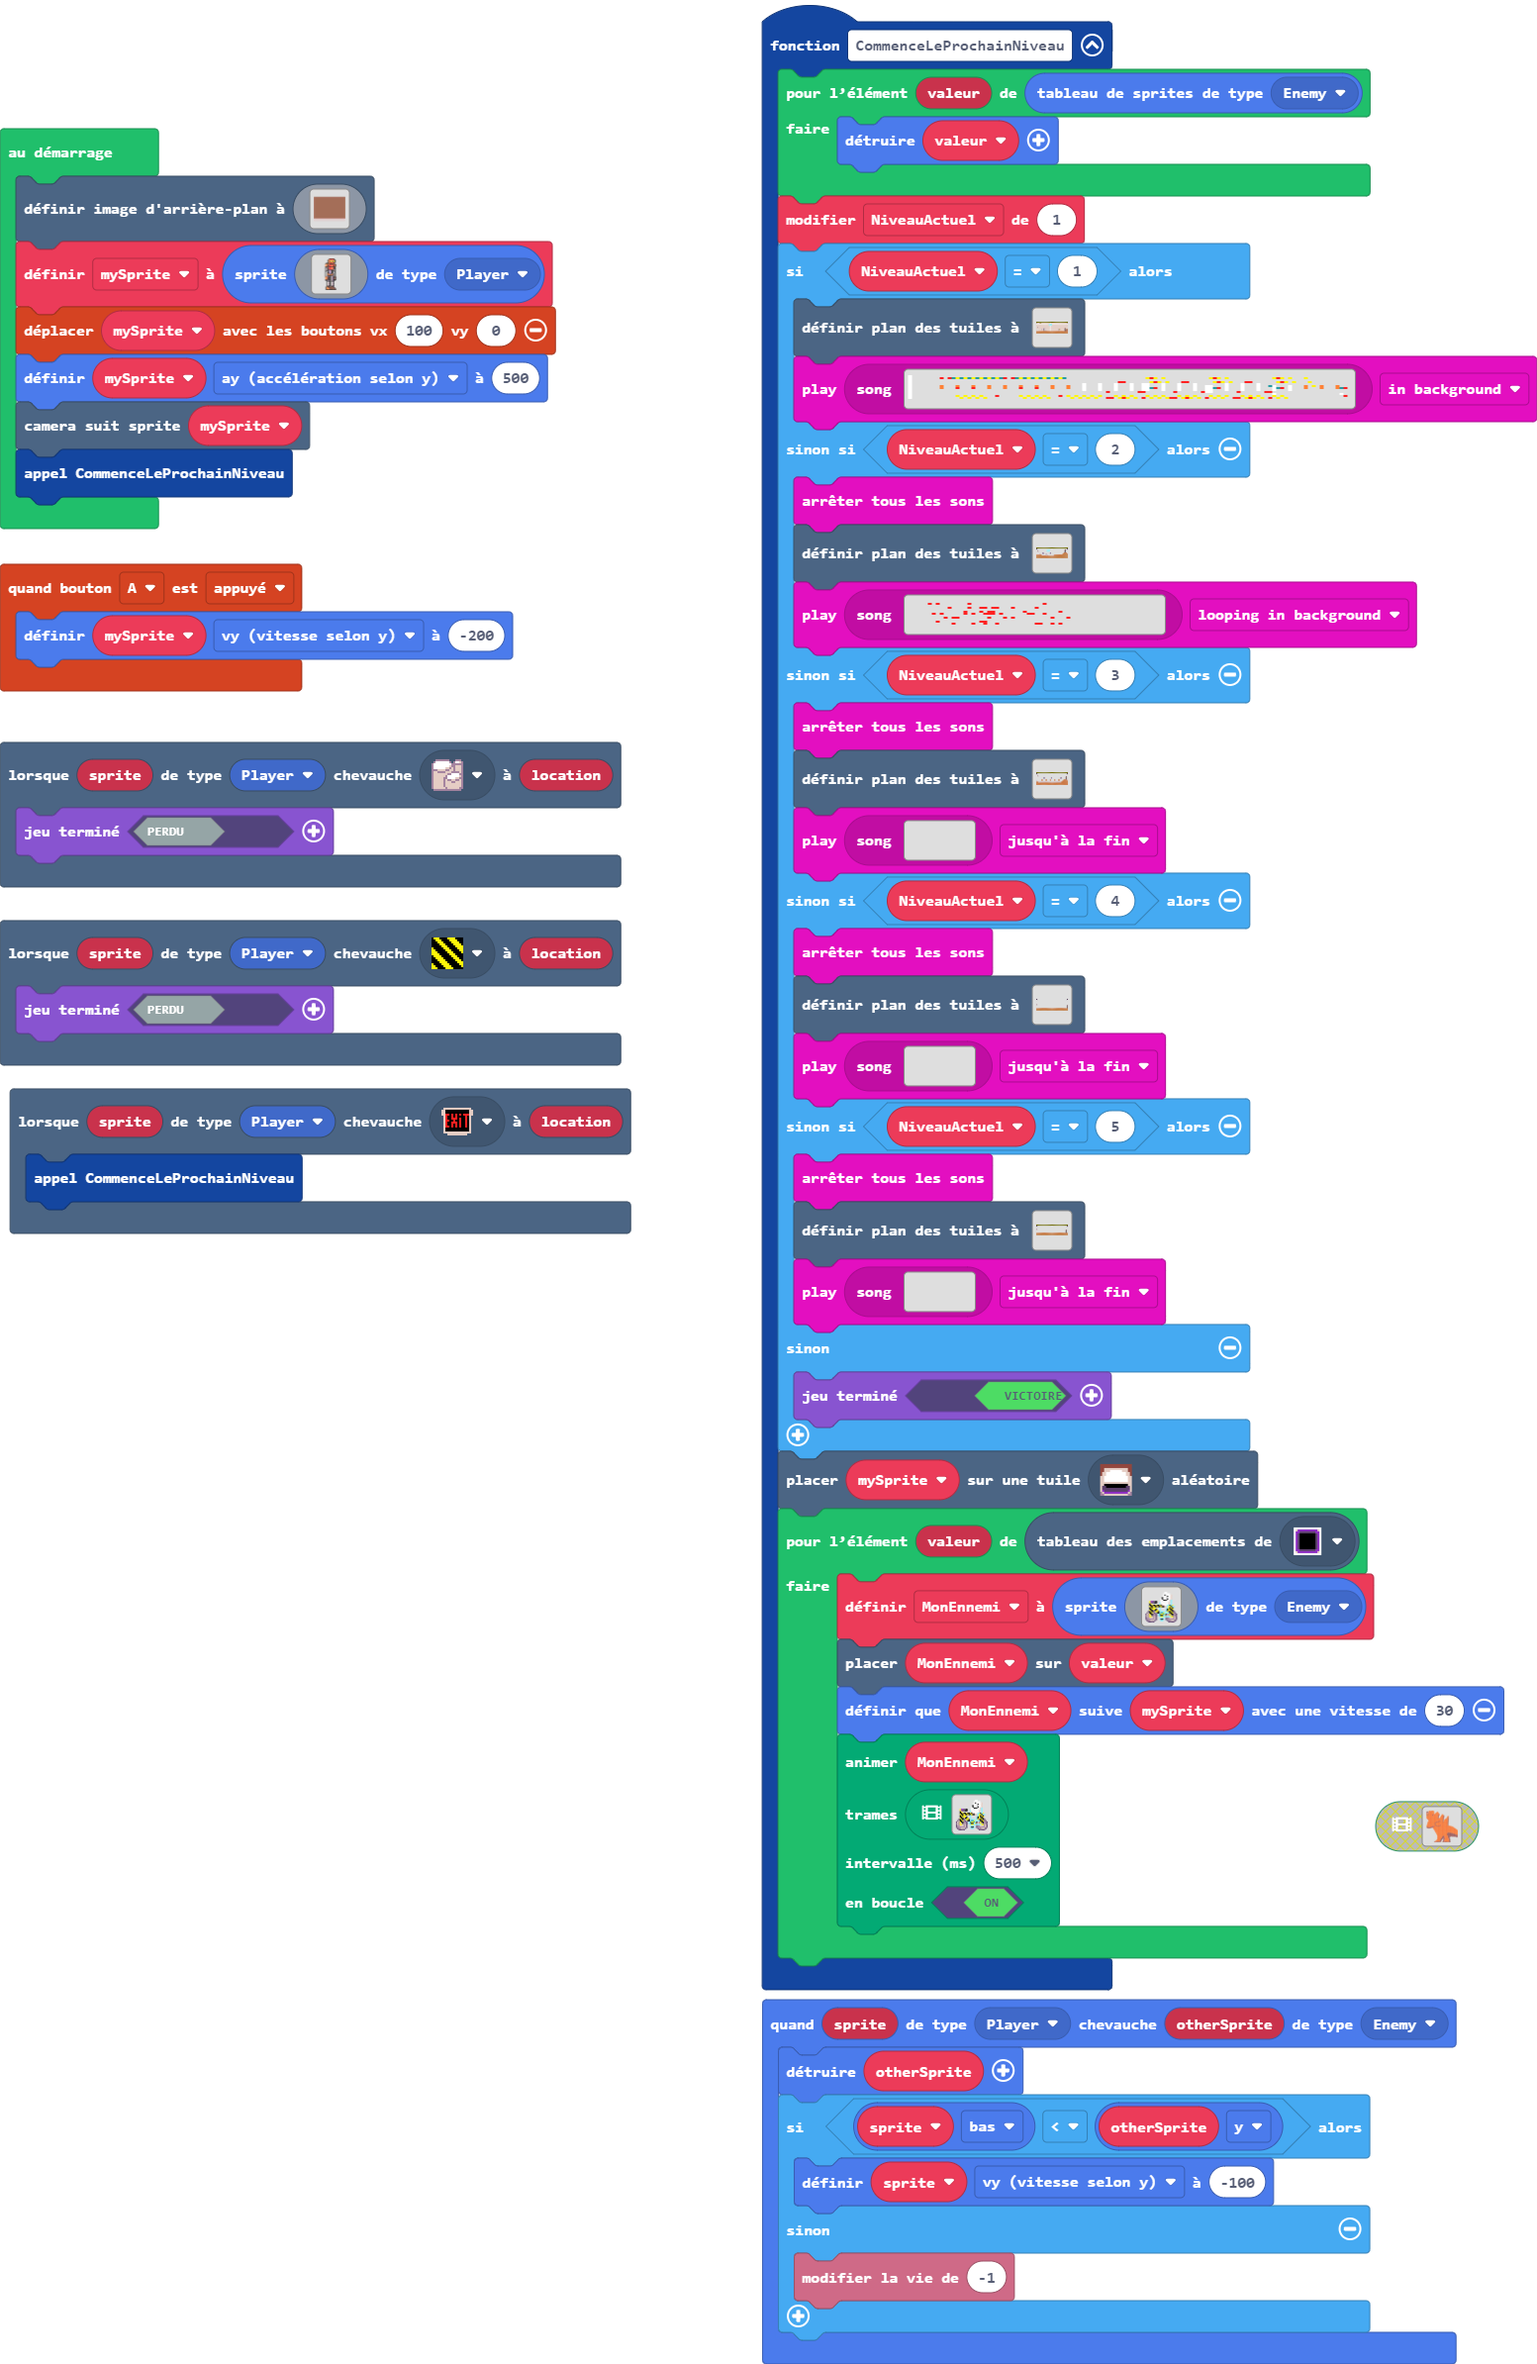
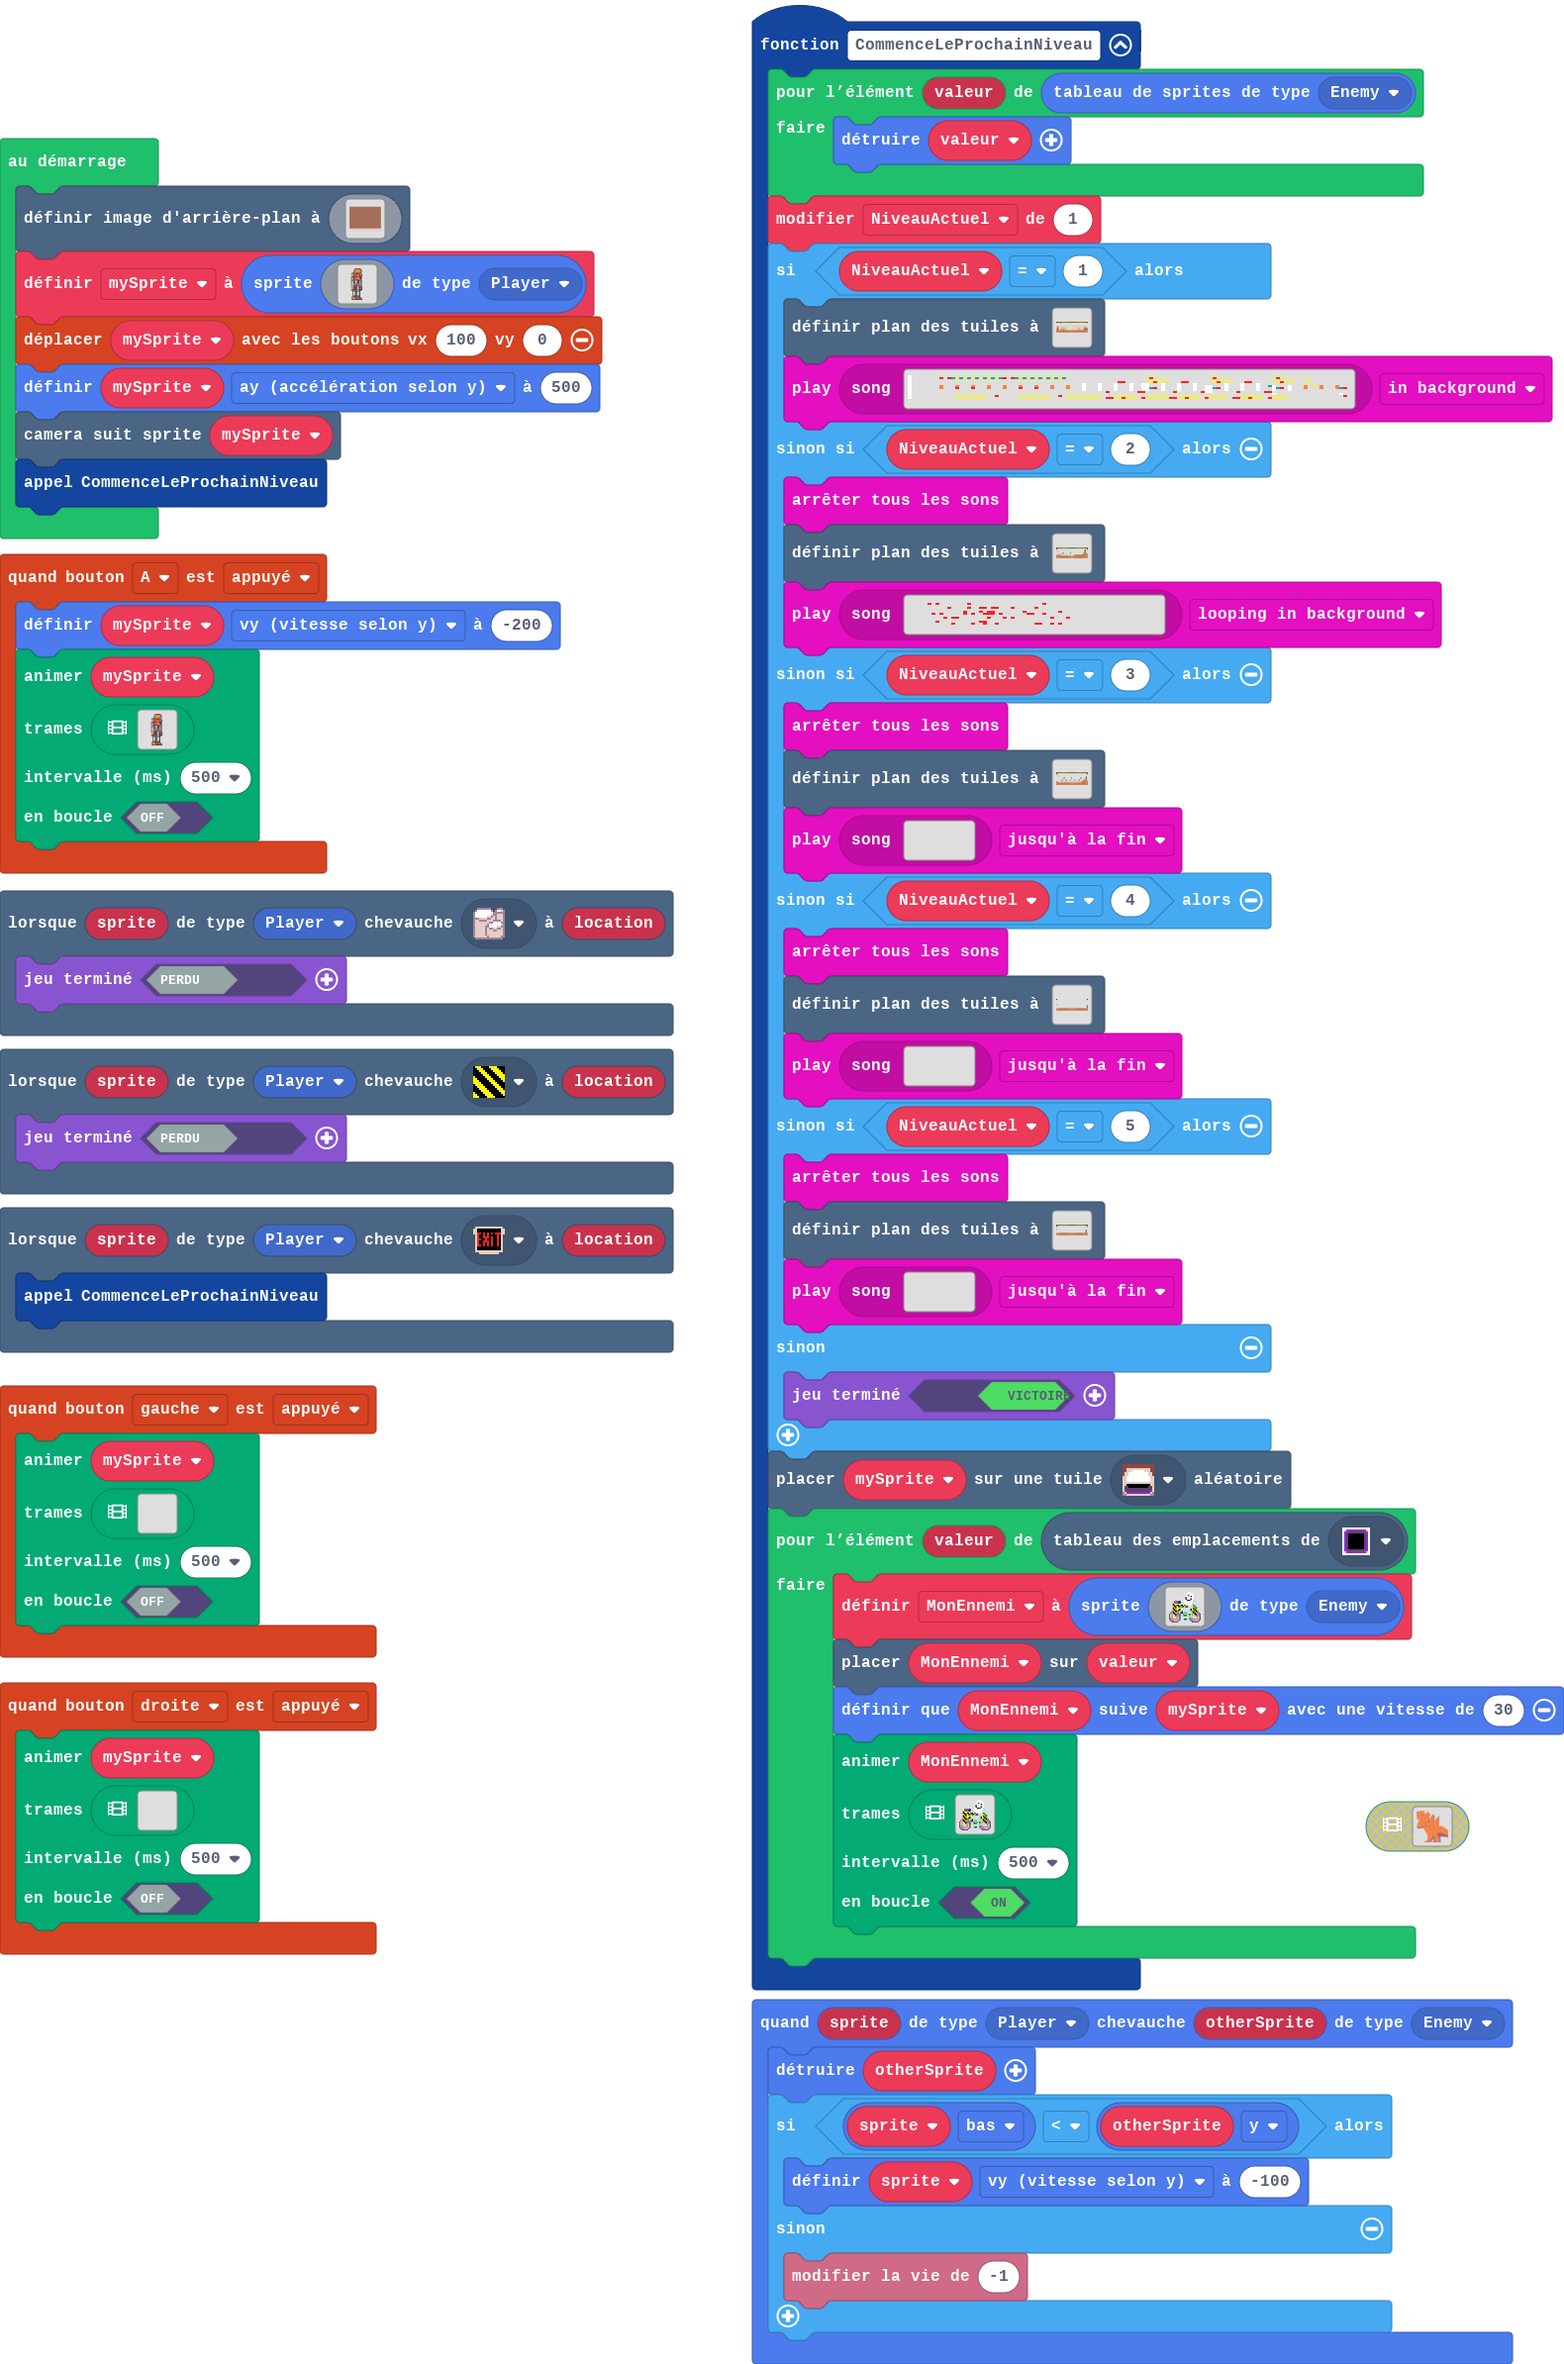
Mise à jour main.blocks, main.ts

diff --git a/main.ts b/main.ts
@@ -173,12 +173,212 @@ function CommenceLeProchainNiveau () {
 }
 controller.A.onEvent(ControllerButtonEvent.Pressed, function () {
     mySprite.vy = -200
+    animation.runImageAnimation(
+    mySprite,
+    [img`
+        ......fffffff...
+        .....f4222422f..
+        ....f442ee42eef.
+        ....f44e554e55f.
+        ....f44e554e55f.
+        ....f44f454f45f.
+        ....f442ff42ffc.
+        .fffff4222422c..
+        f44f44fffffff4f.
+        4144f422eee22f4f
+        444ef42224422f4f
+        44eeff222442ff4f
+        f4efeeffffffeff.
+        ffffee222442eff.
+        f1dfee222442eff.
+        fdbfee222442eff.
+        fdbffee2244efdf.
+        fdbf.facffffbdf.
+        fdff.f1dbbfffdf.
+        ff1f.faacfff1ff.
+        f11f.f11dbff11f.
+        f1dfffaacfffd1f.
+        f1df4f1dbbfef1f.
+        f1df44afff4ef1f.
+        f1df4444444ff1f.
+        f1dffffffffcf1f.
+        fdbfbcf.fdbcfdf.
+        f44efcf.fdbcffef
+        444eeff.fdbcffef
+        444feff.fdbcfeef
+        444feff.fdbcfeef
+        eeeefff.fdbcffff
+        ffffbcf.fdbcfff.
+        ..fdfcf.fdfcf...
+        ..ff1ff.ff1ff...
+        ..f11bf.f11bf...
+        ..f1dbf.f1dbf...
+        ..f1dbf.f1dbf...
+        ..f1dbf.f1dbf...
+        ..f1dbf.f1dbf...
+        ..fdbcf.fdbcf...
+        ..fffff.fffff...
+        .f44feef4feef...
+        .f444feef4feef..
+        .f4444feef4feef.
+        .f44444feef4feef
+        .fffffffffffffff
+        `,img`
+        ......fffffff...
+        .....f4222422f..
+        ....f442ee42eef.
+        ....f44e554e55f.
+        ....f44e554e55f.
+        ....f44f454f45f.
+        ....f442ff42ffc.
+        .fffff4222422c..
+        f44f44fffffff4f.
+        4144f422eee22f4f
+        444ef42224422f4f
+        44eeff222442ff4f
+        f4efeeffffffefff
+        ffffee222442e.ff
+        f1dfee222442e.ff
+        fdbfee222442e.ff
+        fdbffee2244ef.df
+        fdbf.facffffb.fd
+        fdff.f1dbbfff.ff
+        ffffffffeeffef.f
+        11dddddb4444ef..
+        f111111d4444eff.
+        fffffffff444eff.
+        99999999f444eff.
+        .99999999ffff9f.
+        ..99999999999bf.
+        ..f9b9f9f9f9dbf.
+        ..fd9c9.9f91dfff
+        ...9d9c9.9f1f444
+        ...fdbcf..ff444e
+        ...fdbcf.f4444ee
+        ...fdbcf.f444eef
+        ...fdbcf.ff4eef.
+        ...fffff..ffef..
+        ...f1dbf...ff...
+        ...f1dbf........
+        ...f1dbf........
+        ...fddbf........
+        ...fdbcf........
+        ...fffff........
+        ...ffeef........
+        ...f4feef.......
+        ...f44feef......
+        ...fffffff......
+        ................
+        ................
+        ................
+        `,img`
+        ......fffffff...
+        .....f4222422f..
+        ....f442ee42eef.
+        ....f44e554e55f.
+        ....f44e554e55f.
+        ....f44f454f45f.
+        ....f442ff42ffc.
+        .fffff4222422c..
+        f44f44fffffff4f.
+        4144f422eee22f4f
+        444ef42224422f4f
+        44eeff222442ff4f
+        f4efeeffffffefff
+        ffffee222442e.ff
+        f1dfee222442e.ff
+        fdbfee222442e.ff
+        fdbffee2244ef.df
+        fdbf.facffffb.fd
+        fdff.f1dbbfff.ff
+        ffffffffeeffef.f
+        11dddddb4444ef..
+        f111111d4444eff.
+        fffffffff444eff.
+        ...f44aff444eff.
+        ...f44444ffffbf.
+        ..fffffffff1dbf.
+        ..fdbcf.fcf1dbf.
+        ..fdbcf..ff1dfff
+        ...fdbcf..f1f444
+        ...fdbcf..ff444e
+        ...fdbcf.f4444ee
+        ...fdbcf.f444eef
+        ...fdbcf.ff4eef.
+        ...fffff..ffef..
+        ...f1dbf...ff...
+        ...f1dbf........
+        ...f1dbf........
+        ...fddbf........
+        ...fdbcf........
+        ...fffff........
+        ...ffeef........
+        ...f4feef.......
+        ...f44feef......
+        ...fffffff......
+        ................
+        ................
+        ................
+        `],
+    500,
+    false
+    )
 })
 scene.onOverlapTile(SpriteKind.Player, assets.tile`tile2`, function (sprite, location) {
     game.over(false)
 })
+controller.right.onEvent(ControllerButtonEvent.Pressed, function () {
+    animation.runImageAnimation(
+    mySprite,
+    [img`
+        . . . . . . . . . . . . . . . . 
+        . . . . . . . . . . . . . . . . 
+        . . . . . . . . . . . . . . . . 
+        . . . . . . . . . . . . . . . . 
+        . . . . . . . . . . . . . . . . 
+        . . . . . . . . . . . . . . . . 
+        . . . . . . . . . . . . . . . . 
+        . . . . . . . . . . . . . . . . 
+        . . . . . . . . . . . . . . . . 
+        . . . . . . . . . . . . . . . . 
+        . . . . . . . . . . . . . . . . 
+        . . . . . . . . . . . . . . . . 
+        . . . . . . . . . . . . . . . . 
+        . . . . . . . . . . . . . . . . 
+        . . . . . . . . . . . . . . . . 
+        . . . . . . . . . . . . . . . . 
+        `],
+    500,
+    false
+    )
+})
 scene.onOverlapTile(SpriteKind.Player, assets.tile`myTile2`, function (sprite, location) {
     game.over(false)
+})
+controller.left.onEvent(ControllerButtonEvent.Pressed, function () {
+    animation.runImageAnimation(
+    mySprite,
+    [img`
+        . . . . . . . . . . . . . . . . 
+        . . . . . . . . . . . . . . . . 
+        . . . . . . . . . . . . . . . . 
+        . . . . . . . . . . . . . . . . 
+        . . . . . . . . . . . . . . . . 
+        . . . . . . . . . . . . . . . . 
+        . . . . . . . . . . . . . . . . 
+        . . . . . . . . . . . . . . . . 
+        . . . . . . . . . . . . . . . . 
+        . . . . . . . . . . . . . . . . 
+        . . . . . . . . . . . . . . . . 
+        . . . . . . . . . . . . . . . . 
+        . . . . . . . . . . . . . . . . 
+        . . . . . . . . . . . . . . . . 
+        . . . . . . . . . . . . . . . . 
+        . . . . . . . . . . . . . . . . 
+        `],
+    500,
+    false
+    )
 })
 sprites.onOverlap(SpriteKind.Player, SpriteKind.Enemy, function (sprite, otherSprite) {
     otherSprite.destroy()
